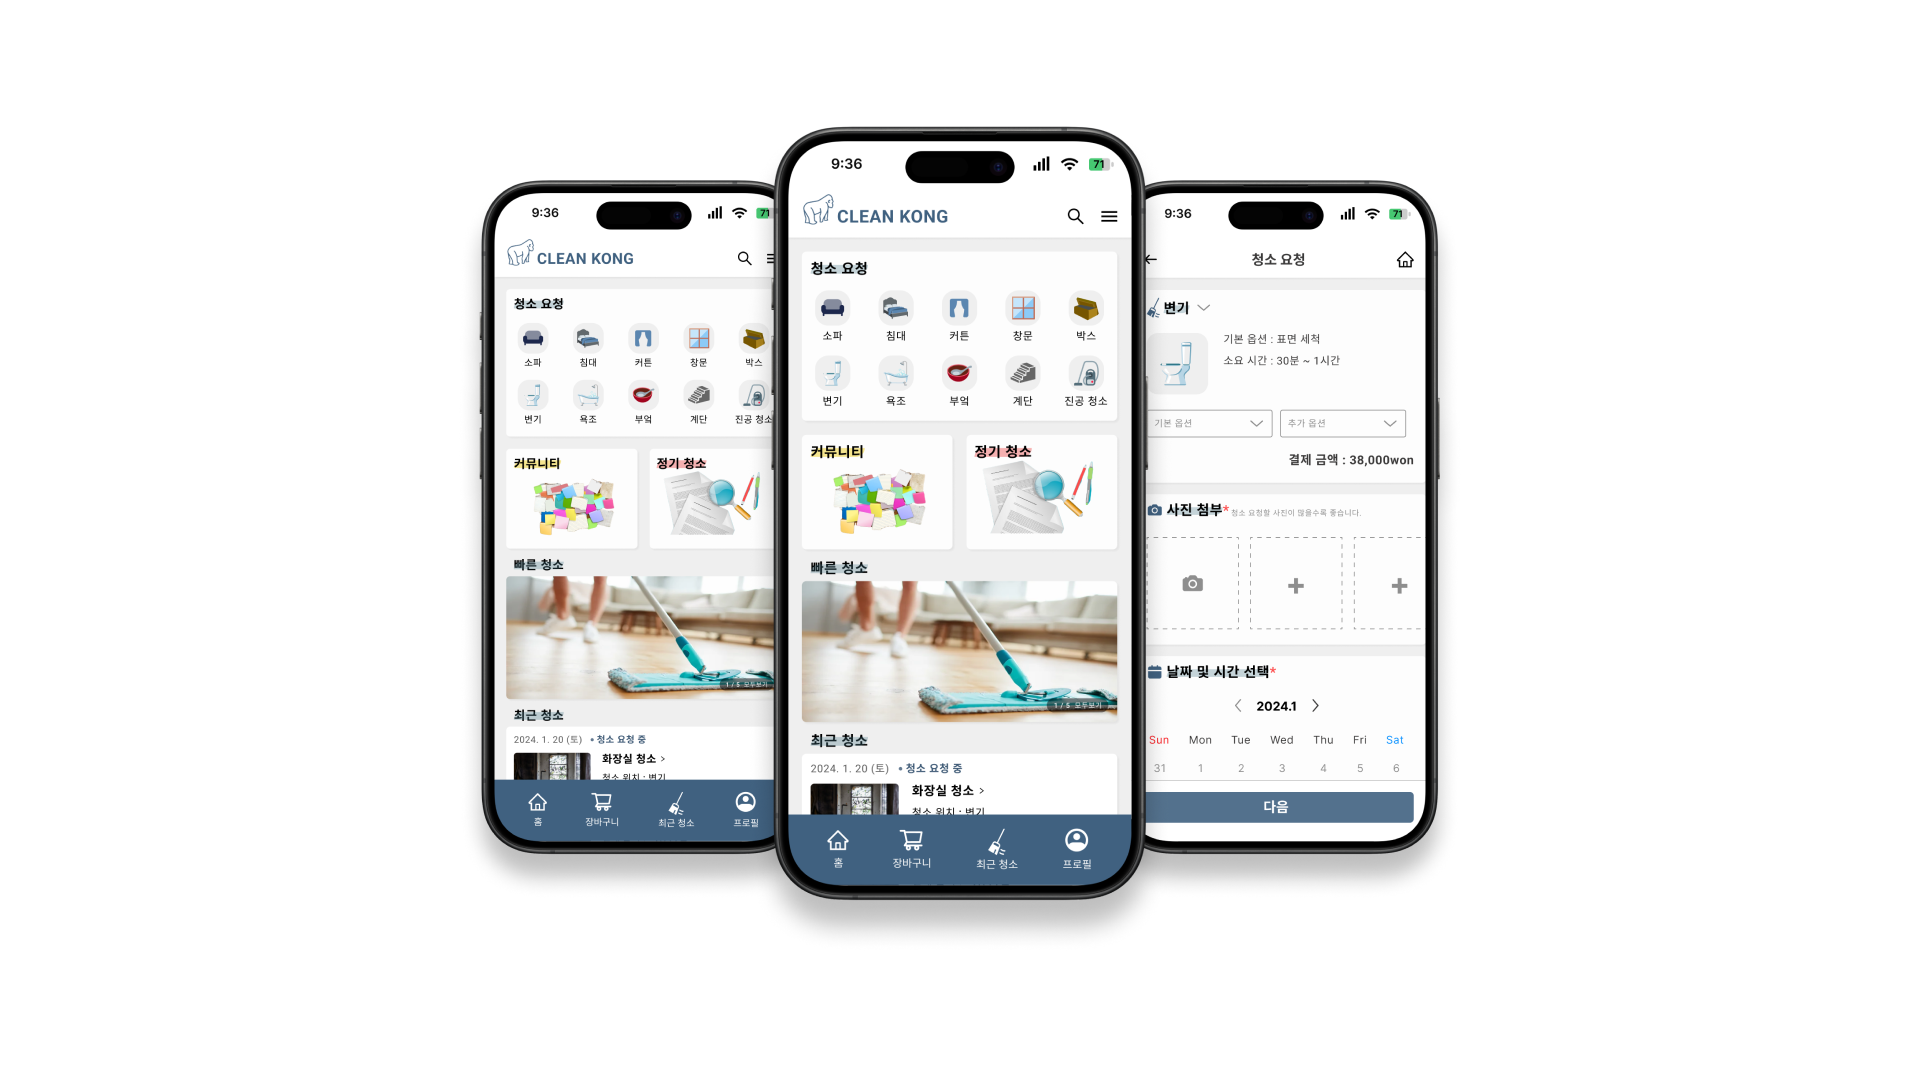
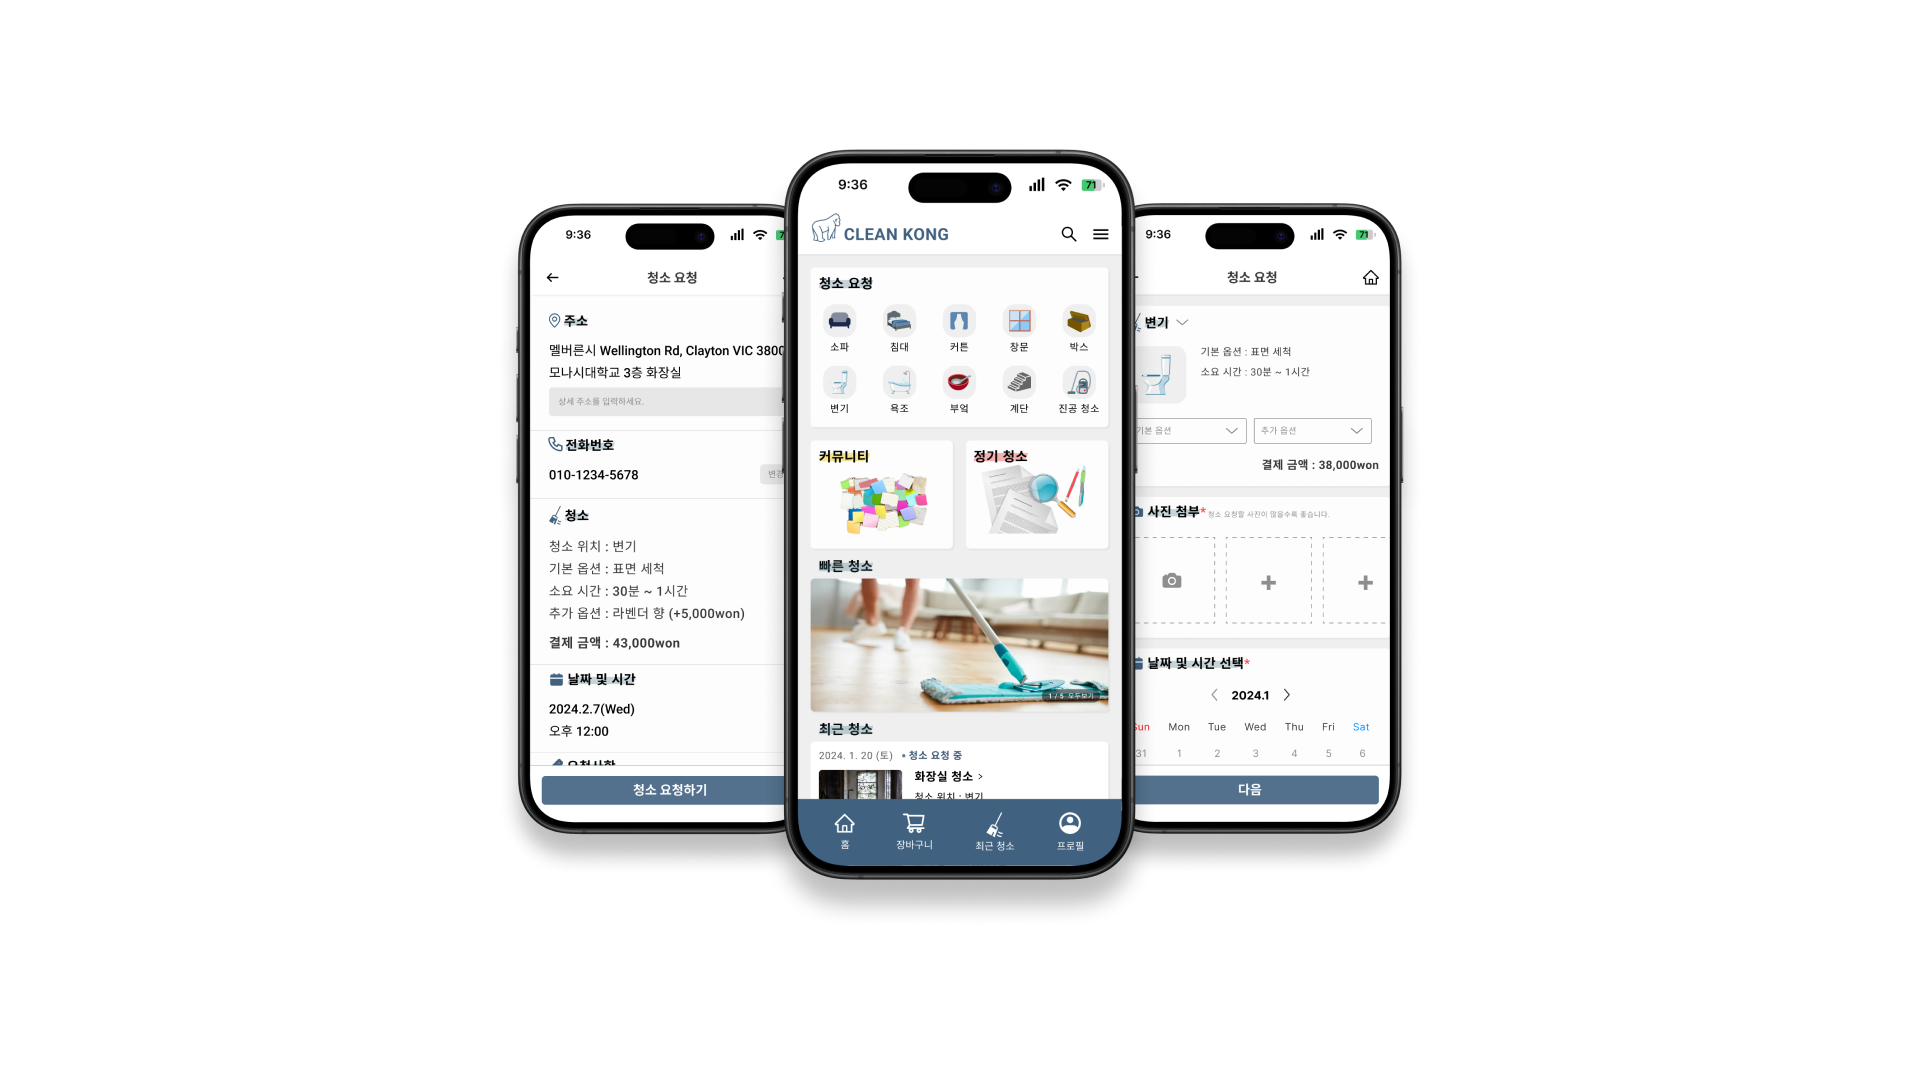
Feat: 최종 수정

Changed region(s): [[0.25, 0.0917, 0.75, 0.8861], [0.6562, 0.5194, 0.6875, 0.55], [0.5, 0.3972, 0.5312, 0.4278]]

diff --git a/src/components/Project/ProjectThirdSection/styles/ThirdDetail.css b/src/components/Project/ProjectThirdSection/styles/ThirdDetail.css
@@ -52,6 +52,11 @@
     margin-right: 1rem;
 }
 
+.firstDetailSection .detailContainer .detailBox .detailContent {
+    display: flex;
+    flex-direction: column;
+}
+
 .firstDetailSection .detailContainer .detailBox .detailContent span {
     color: #555;
     font-family: "paybooc-Medium";

diff --git a/src/components/Project/ProjectSecondSection/styles/SecondDetail.css b/src/components/Project/ProjectSecondSection/styles/SecondDetail.css
@@ -55,6 +55,7 @@
 .firstDetailSection .detailContainer .detailBox .detailContent {
     /* border: solid 3px red; */
     display: flex;
+    flex-direction: row;
 }
 
 .firstDetailSection .detailContainer .detailBox .detailContent span {
